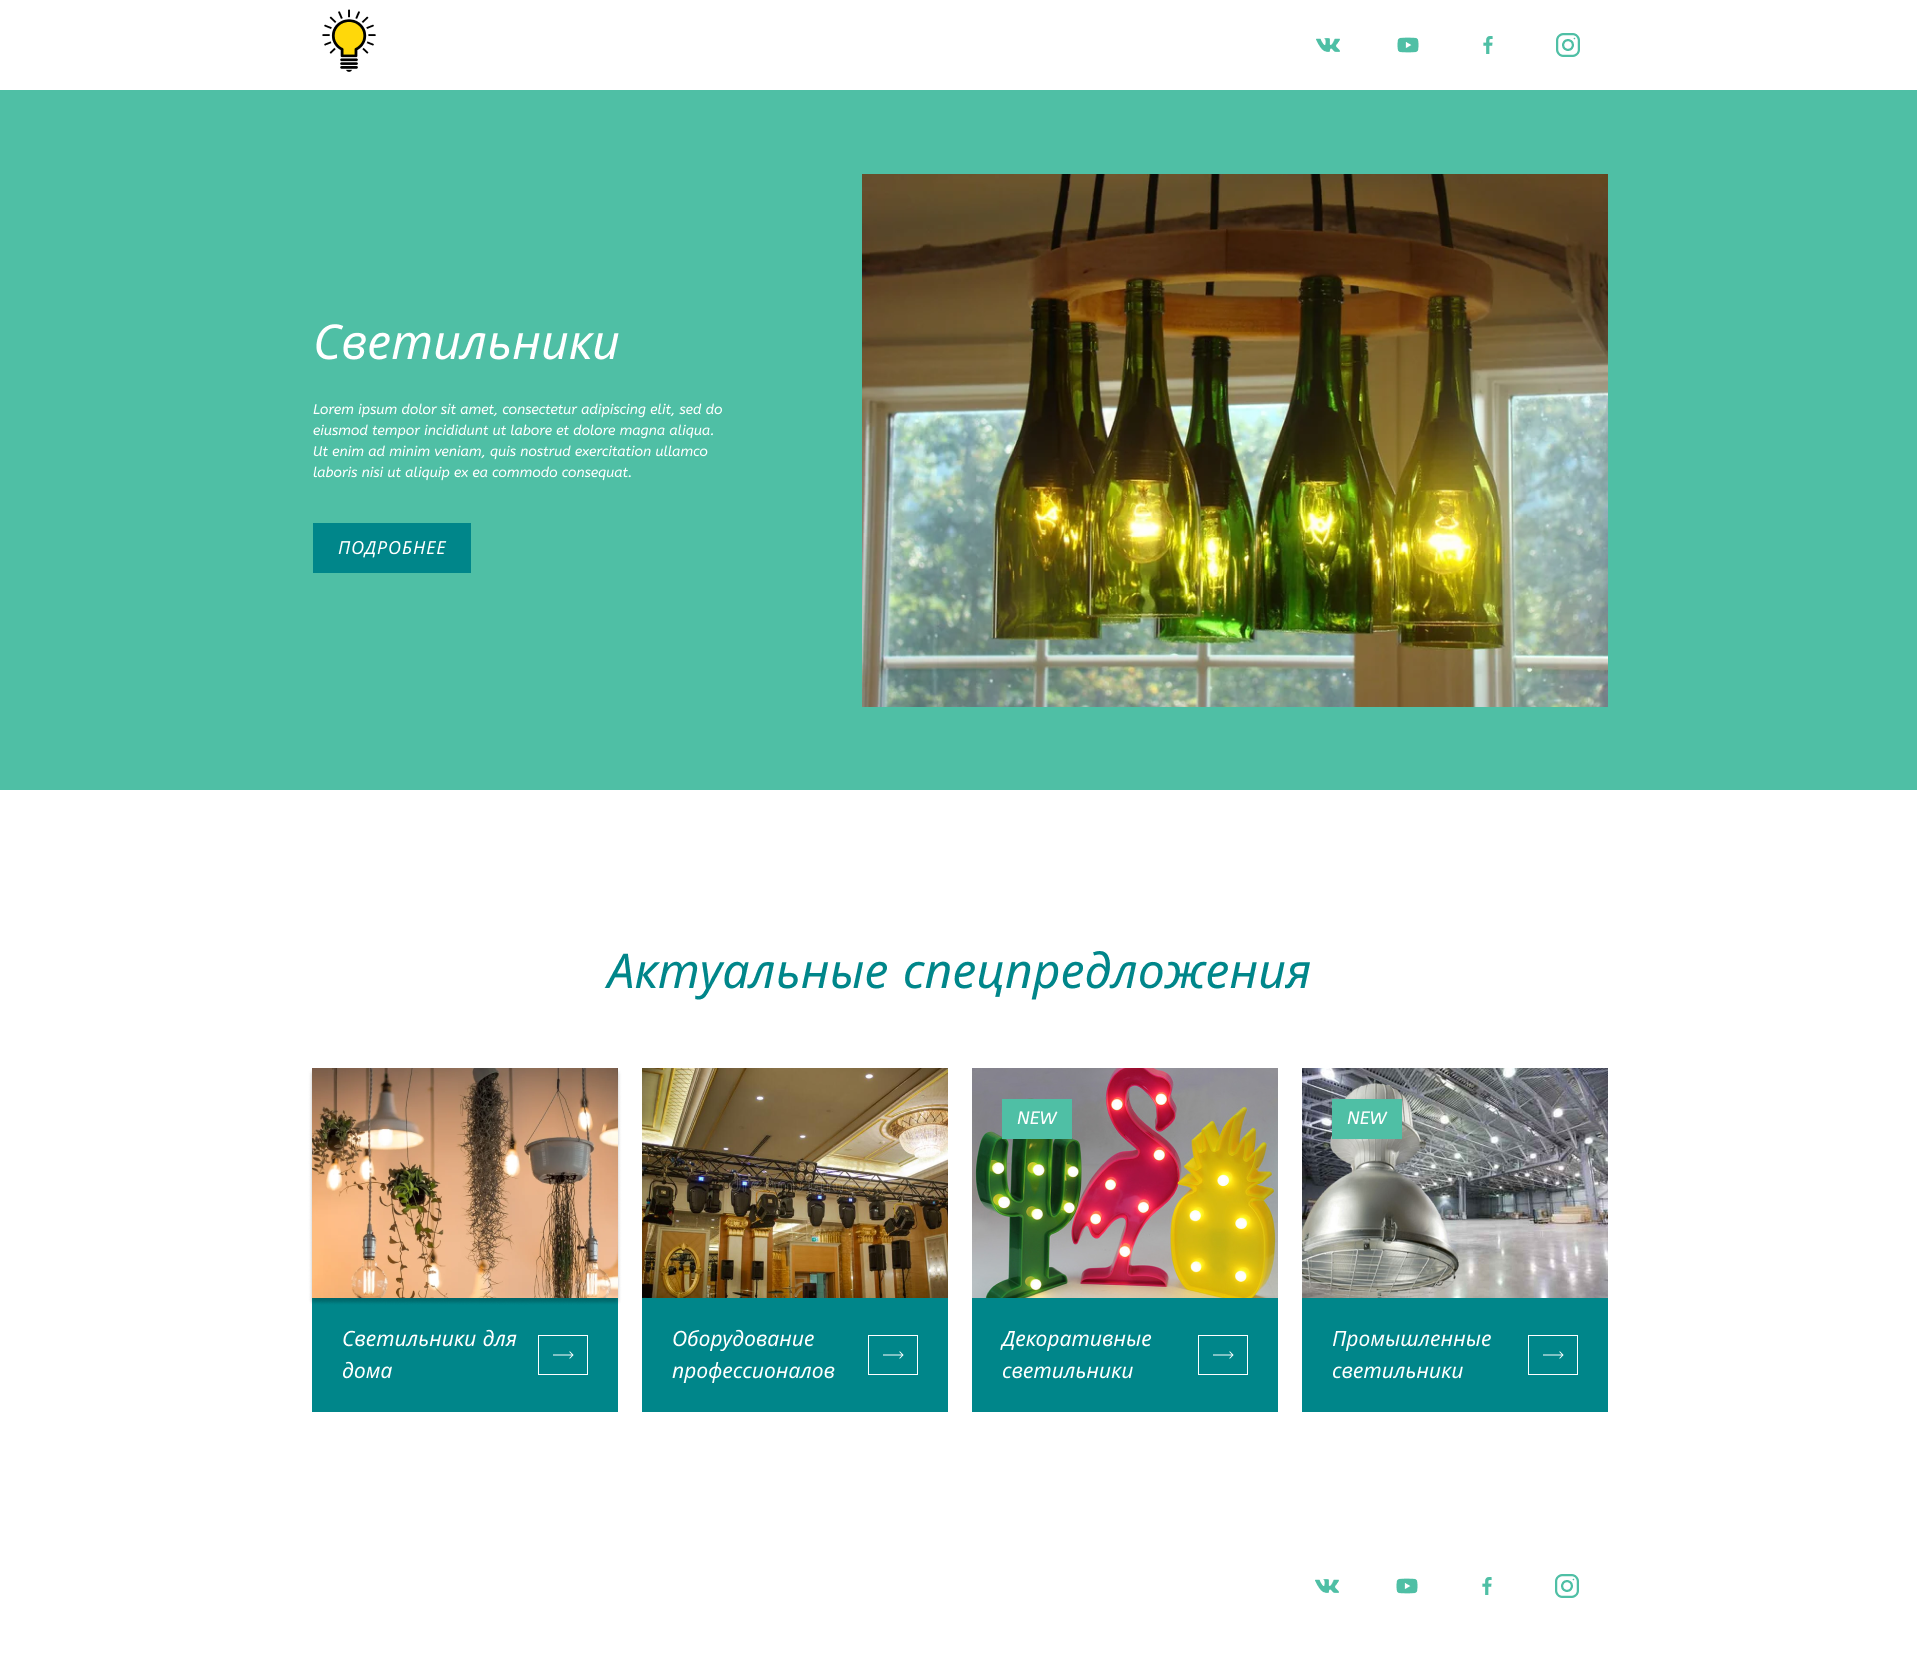
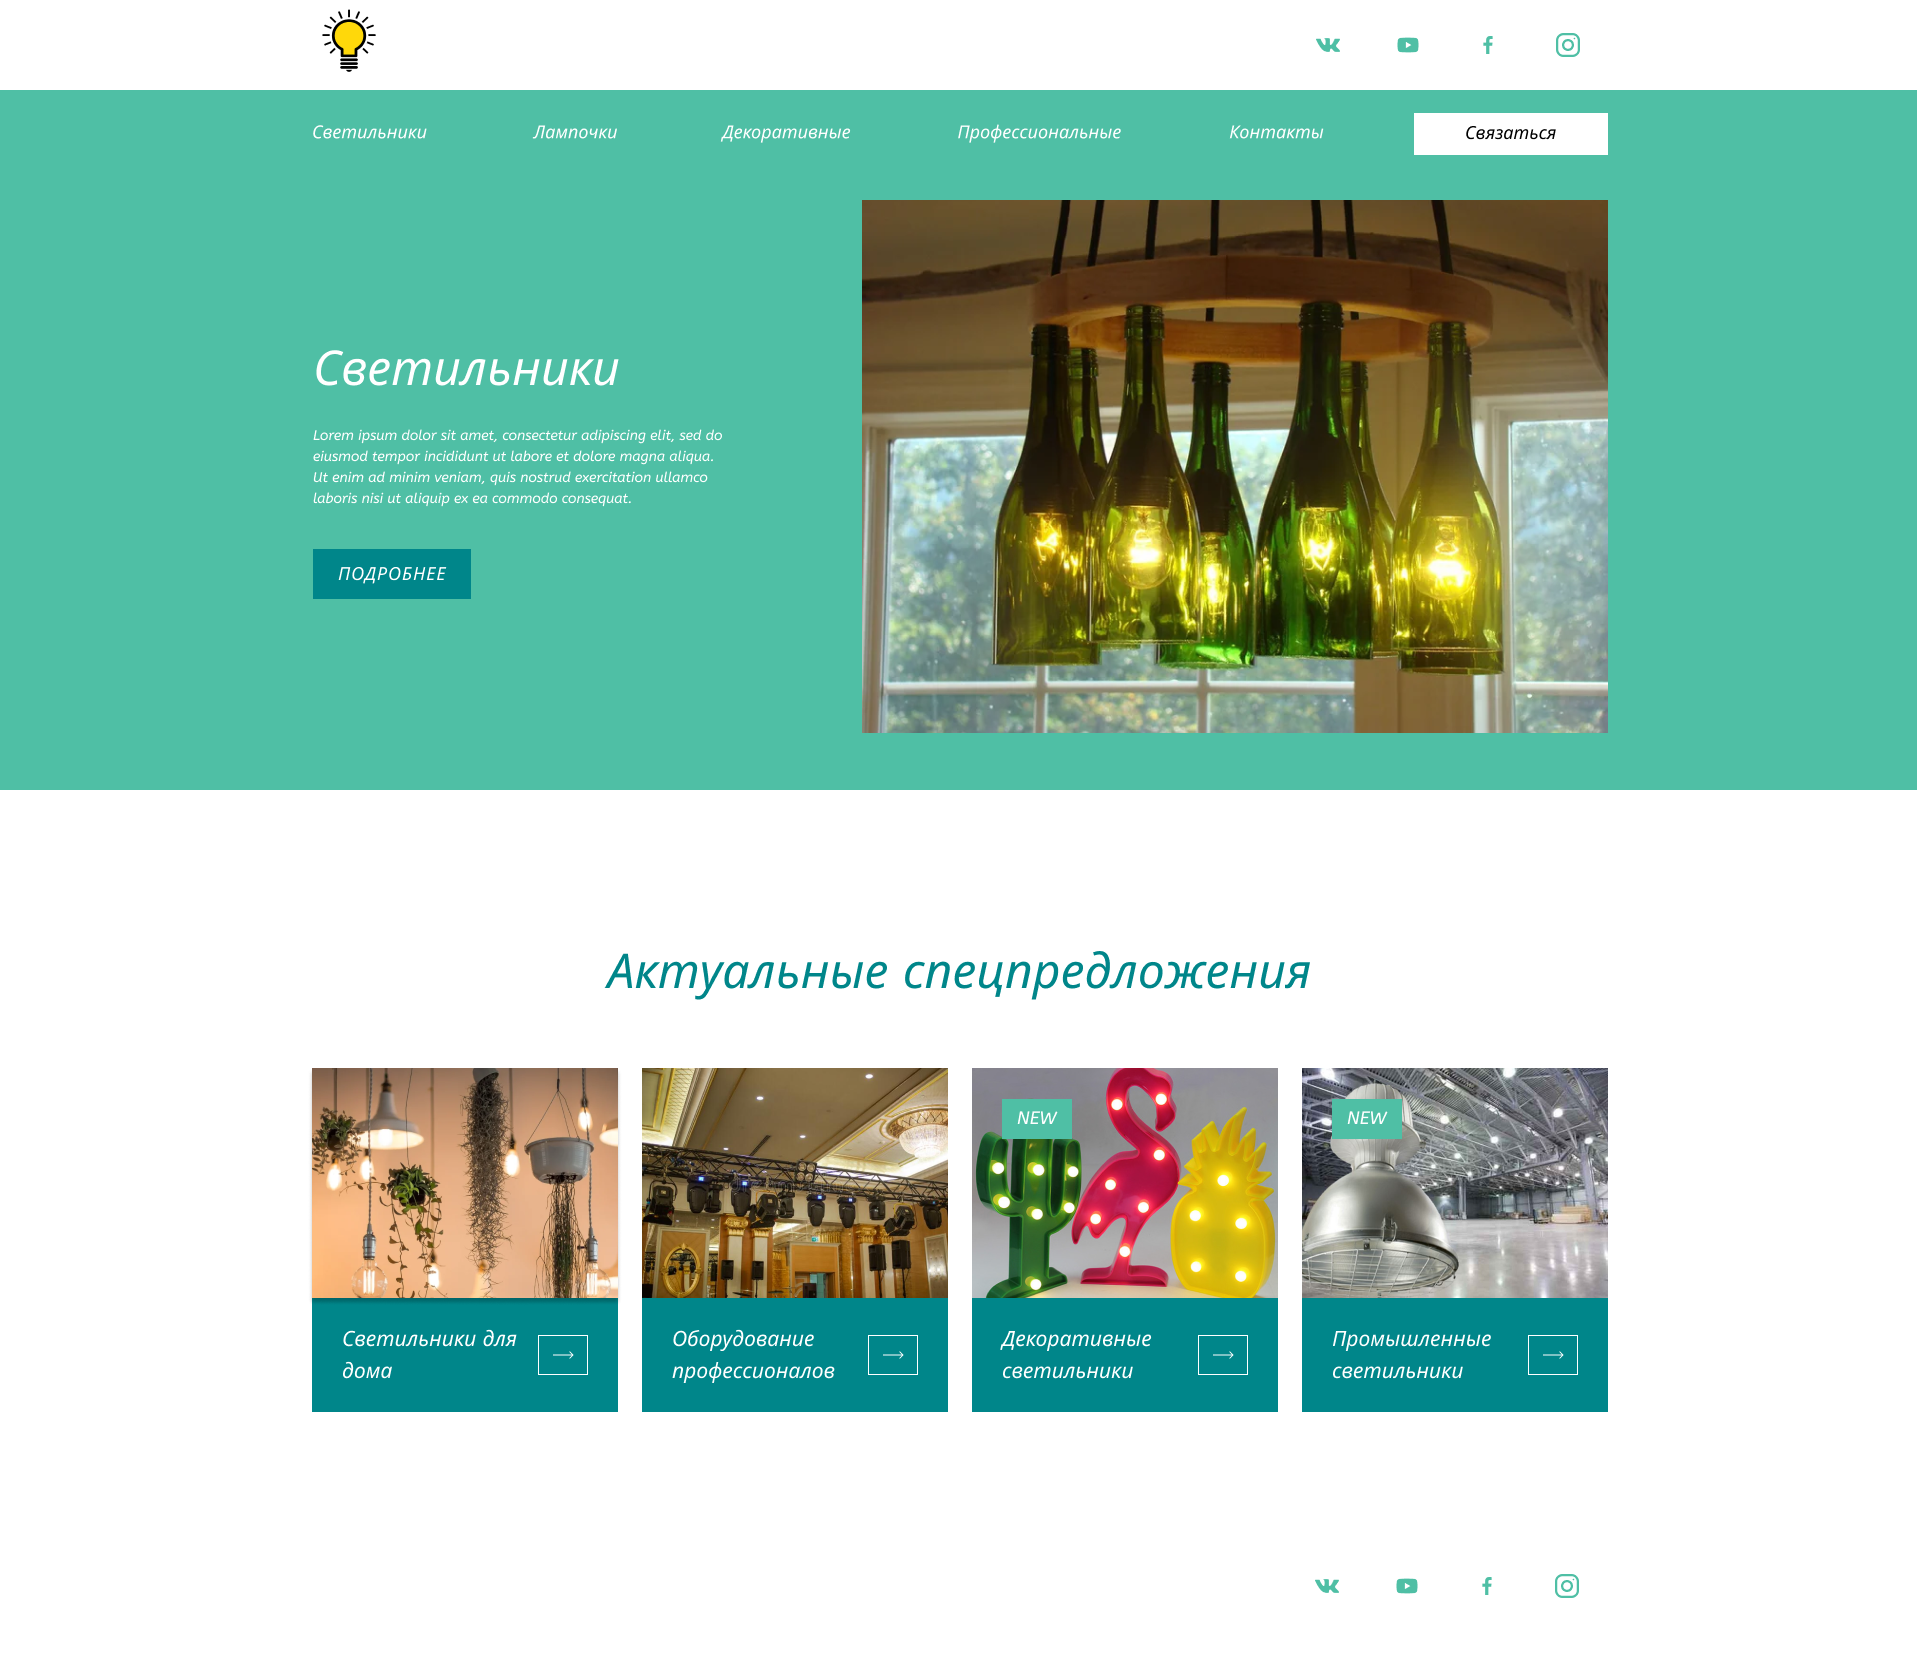
30-07-24

diff --git a/FrontEnd/project_2/style/style.css b/FrontEnd/project_2/style/style.css
@@ -2,12 +2,50 @@
     margin: 0;
     padding: 0;
     box-sizing: border-box;
+    position: relative;
 }
 .container{
     max-width: 1296px;
     margin: 0 auto;
     display: flex;
+    /* align-items: center; */
+}
+main nav {
+    display: flex;
     align-items: center;
+    width: 100%; /* Или можно использовать 100% для занимания всей ширины родительского элемента */
+    height: 42px;
+    /* background-color: blue; */
+    margin-top: 23px;
+    /* margin: 0 auto; Убедитесь, что nav не превышает ширину родительского элемента */
+}
+main nav input{
+    width: 192px;
+    height: 42px;
+    border: none;
+    /* margin: 10px 51px; */
+    font-family: ABeeZee;
+    font-size: 18px;
+    font-style: italic;
+    font-weight: 400;
+
+
+}
+main nav ul {
+    display: flex;
+    justify-content: space-between; /* Распределение элементов по всей ширине */
+    align-items: center;
+    width: 100%; /* Чтобы ul занимал всю ширину nav */
+    padding: 0;
+    margin: 0;
+    list-style-type: none;
+    font-family: ABeeZee;
+    font-size: 18px;
+    font-style: italic;
+    font-weight: 400;
+    color: white;
+
+
 }
 .header-content{
     width: 1296px;
@@ -16,38 +54,32 @@
     justify-content: space-between;
     align-items: center;
 }
-.soc ul{
+ul{
     display: flex;
     list-style-type: none;
-/*     justify-content: space-between;
-    align-items: center;
-    flex-direction: column; */
 }
-.soc ul li/* :nth-child(2) */{
+.soc ul li{
     margin: 0 28px;
-    /* padding-right: 56px; */
 }
 main{
-    /* width: 1920px; */
     height: 700px;
     margin: 0 auto;
-    /* text-align: center; */
     background-color: #4FBFA5; 
-    display: flex;
-    align-items: center;
+    /* display: flex; */
+    /* justify-content: flex-start; */
+    /* align-items: center; */
 }
 .main-content{
     width: 1296px;
-    height: 700px;
+    height: 627px;
     background-color: #4FBFA5;    ;
     display: flex;
     justify-content: space-between;
     align-items: center;
-    /* padding-top: 40px; */
+    font-family: ABeeZee;
 }
 h2{
-    /* margin-top: -44px; */
-    font-family: ABeeZee;
+
     font-size: 48px;
     font-style: italic;
     font-weight: 400;
@@ -55,26 +87,16 @@ h2{
     margin-left: 3px;
 }
 .content-descript{
-    /* margin-bottom: 40px; */
     width: 50%;
     height: 700px;
-    /* background-color: aquamarine; */
     padding-top: 227px;
     display: flex;
-    /* justify-content: flex-start; */
     align-items: flex-start;
     flex-direction: column;
-
-
-
-
 }
 .content-descript p{
     width: 416px;
-    margin-left: 1px;
-    
-    /* height: 84px; */
-    /* margin-bottom: 40px; */
+    margin-left: 1px;    
 }
 .content-descript button{
     margin-top: 40px;
@@ -82,11 +104,78 @@ h2{
     height: 50px;
     background-color: #00868A;
     background-image: url(../img/подробнее.png);
-
-    background-repeat: no-repeat;  /* Предотвращает повторение изображения */
-    background-position: center;  /* Центрирует изображение в блоке */
+    background-repeat: no-repeat;
+    background-position: center;
     border: none;
+}
+.angebots{
+    margin-top: 152px;
+    display: flex;
+    flex-direction: column;
+    align-items: center;
+    /* background-color: antiquewhite; */
+}
+.angebots h2{
+    font-family: ABeeZee;
+    font-size: 48px;
+    font-style: italic;
+    font-weight: 400;
+    margin-bottom: 69px;
+}
+.angebots .img{
+    width: 306px;
+    height: 475px;
+}
+.angebots-img{
+    width: 1296px;
+    height: 475px;
+    display: flex;
+    justify-content: space-between;
+    /* background-color:chartreuse; */
+}
+.angebots .img img {
+    display: block; /* Убирает нижний отступ, который иногда возникает из-за inline свойства изображений */
+/*     box-shadow: 0 3px 6px rgba(0,0,0,0.16); /* Пример тени: горизонтальное смещение 0, вертикальное 3px, размытие 6px */ 
+}
+.angebots .text p {
+    display: block;
+    margin: 0; /* Убираем внешние отступы у абзацев */
+    text-align: left;
+}
+.angebots .text {
+    width: 306px;
+    height: 112px;
+    /* margin-top: -8px; */
+    /* margin-left: 4px; */
+    /* margin: 0 auto; */
+    padding: 30px;
+    display: flex;               /* Применяем flexbox */
+    justify-content: center;     /* Центрирование по горизонтали */
+    align-items: center;         /* Центрирование по вертикали */
+    text-align: center;          /* Центрирование текста внутри блока */
+    font-family: ABeeZee;
+    font-size: 21px;
+    font-style: italic;
+    font-weight: 400;
+    color: white;
+    background-color: #00868A;
+    box-shadow: inset 0 6px 6px -2px rgba(0, 0, 0, 0.363); /* Внутренняя тень, более ограниченная по горизонтали */
+}
+.card-new{
+    position: absolute;
+    top: 30px;
+    left: 30px;
+}
+.card-new input{
+    width: 70px;
+    height: 40px;
+    font-family: ABeeZee;
+    font-size: 18px;
+    font-style: italic;
+    font-weight: 400;
+    border: none;
+    color: white;
+    background-color: #4FBFA5;
 
 }
-
 

diff --git a/FrontEnd/project_2/index.html b/FrontEnd/project_2/index.html
@@ -11,7 +11,9 @@
 </head>
 <body>
     <header>
+
         <div class="container">
+
             <div class="header-content">
                 <div class="icon">
                     <img src="./img/image 1.png" alt="ico">
@@ -30,10 +32,21 @@
     </header>
     <main>
         <div class="container">
+            <nav>
+                <ul>
+                    <li>Светильники</li>
+                    <li>Лампочки</li>
+                    <li>Декоративные</li>
+                    <li>Профессиональные</li>
+                    <li>Контакты</li>
+                    <li><input type="button" value="Связаться"></li>
+                </ul>
+            </nav>
+        </div>
+        <div class="container">
             <div class="main-content">
                 <div class="content-descript">
-                    <h2><img src="./img/Светильники.png" alt="Светильники"></h2>
-                    <!-- <p>Lorem ipsum dolor sit amet, consectetur adipiscing elit, sed do eiusmod tempor incididunt ut labore et dolore magna aliqua. Ut enim ad minim veniam, quis nostrud exercitation ullamco laboris nisi ut aliquip ex ea commodo consequat. </p> -->
+                    <h2><img src="./img/Светильники.png" alt="Светильники"></h2>                    
                     <p><img src="./img/Lorem ipsum dolor sit amet, consectetur adipiscing elit, sed do .png" alt=""></p>
                     <button><!-- Подробнее --></button>
                 </div>
@@ -43,31 +56,42 @@
             </div>
         </div>
     </main>
-<!-- Мой тест див -->
-<style>
-    .test-overlay {
-    position: absolute;
-    top: 0; /* Сместим верхний край элемента к центру экрана по вертикали */
-    left: 50%; /* Сместим левый край элемента к центру экрана по горизонтали */
-    width: 1920px; /* Ширина и высота по размеру вьюпорта */
-    height: 1662px;
-    background: url('./img/Lamp.png') no-repeat center center / cover; /* Замените путь к вашему изображению */
-    opacity: 0.5; /* Начальная прозрачность */
-    z-index: 1000; /* Убедитесь, что слой наверху */
-    transform: translateX(-50%); /* Смещение элемента на -50% его ширины влево */
-    }
-</style>
-    <!-- Мой тест див -->
-    <div class="test-overlay">
-        <!-- Мой тест див -->
-    </div>
-    <input type="range" min="0" max="1" step="0.1" value="0.5" id="opacity-slider" style="position: fixed; left: 20px; bottom: 20px; z-index: 1100;">
-
-    <script>
-        document.getElementById('opacity-slider').addEventListener('input', function(e) {
-        document.querySelector('.test-overlay').style.opacity = e.target.value;
-    });
-    </script>
-    <!-- Мой тест див -->
+    <article>
+        <div class="container">
+            <div class="angebots">
+                <h2>Актуальные спецпредложения</h2>
+                <div class="angebots-img">
+                    <div class="img">
+                        <img src="./img/resized_image.png" alt=""><div class="text"><p>Светильники для дома</p><a href="#"><img src="./img/Frame 6.png" alt=""></a></div>
+                    </div>
+                    <div class="img">
+                        <img src="./img/Rectangle 23-1.png" alt=""><div class="text"><p>Оборудование профессионалов</p><img src="./img/Frame 6.png" alt=""></div>
+                    </div>
+                    <div class="img">
+                        <img src="./img/Rectangle 23-2.png" alt=""><div class="text"><p>Декоративные светильники</p><img src="./img/Frame 6.png" alt=""></div><div class="card-new"><input type="button" value="NEW"></div>
+                    </div>
+                    <div class="img">
+                        <img src="./img/Rectangle 23-3.png" alt=""><div class="text"><p>Промышленные светильники</p><img src="./img/Frame 6.png" alt=""></div><div class="card-new"><input type="button" value="NEW"></div>
+                    </div>
+                </div>
+            </div>            
+        </div>
+        <div class="container">
+            <div class="header-content">
+                <div class="icon">
+                    <!-- <img src="./img/image 1.png" alt="ico"> -->
+                </div>
+                <div class="soc">
+                    <ul>
+                        <li><img src="./img/vk.png" alt="vk"></li>
+                        <li><img src="./img/youtube.png" alt=""></li>
+                        <li><img src="./img/facebook.png" alt="fb"></li>
+                        <li><img src="./img/instagram.png" alt=""></li>
+                        
+                    </ul>
+                </div>
+            </div>
+        </div>
+    </article>
 </body>
 </html>
